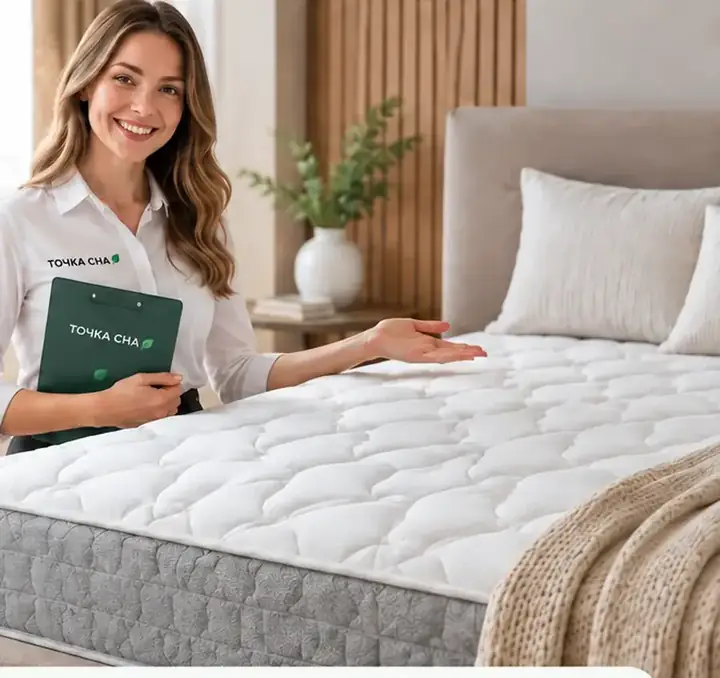
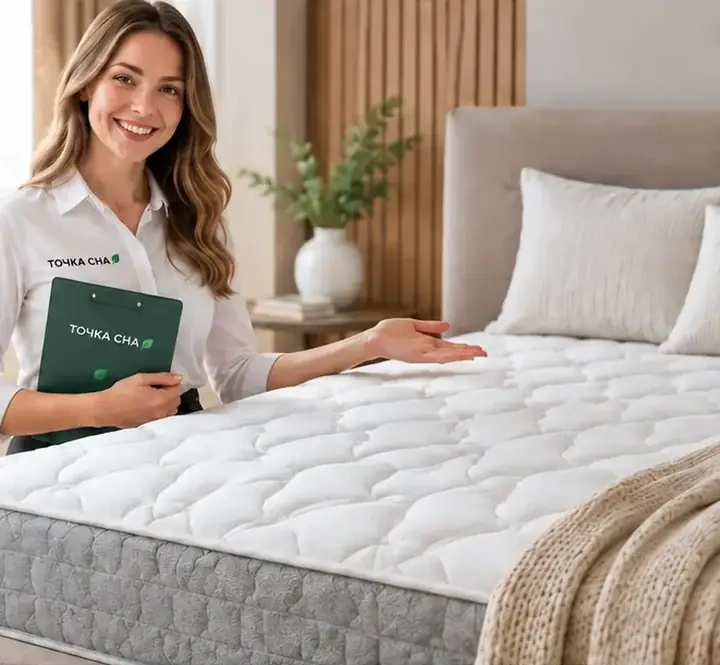
Crop 13px white strip from hero photo

diff --git a/index.html b/index.html
@@ -100,7 +100,7 @@ input:focus,select:focus{border-color:var(--brand-green);box-shadow:0 0 0 3px rg
 <body>
 <div class="top"><div class="wrap"><span><b>Точка Сна</b> · федеральная онлайн-сеть товаров для сна</span><span>Екатеринбургский филиал · региональный склад: г. Берёзовский</span></div></div>
 <nav class="nav"><div class="wrap navin"><a class="brand brand-logo" href="#top" aria-label="Точка Сна"><img src="assets/logo-tochka-sna.svg?v=20260905-logo1" alt="Точка Сна — матрасы для комфортной жизни" width="250" height="50"></a><div class="navlinks"><a href="#catalog">Каталог</a><a href="#guide">Как выбрать</a><a href="#delivery">Доставка</a><a href="#about">О сети</a></div><a class="btn avito" target="_blank" rel="noopener">Написать на Авито</a></div></nav>
-<header class="hero" id="top"><div class="wrap"><div class="hero-copy"><div class="eyebrow"><span class="hero-pin" aria-hidden="true"></span>Екатеринбургский филиал федеральной онлайн-сети</div><h1>Комфортный сон начинается с правильного матраса</h1><p>Поможем подобрать матрас под ваши потребности: консультация, честные рекомендации и быстрая доставка по Екатеринбургу и ближайшим районам.</p><div class="actions"><a class="btn hero-primary" href="#catalog">Перейти в каталог <span aria-hidden="true">→</span></a><a class="btn hero-avito avito" target="_blank" rel="noopener">Получить консультацию на Авито <span class="avito-dots" aria-hidden="true"><i></i><i></i><i></i><i></i></span></a></div><div class="advantages" aria-label="Преимущества"><div class="adv"><span class="hero-adv-icon" aria-hidden="true"><svg viewBox="0 0 24 24"><path d="M20 4C13 4 7 6.8 5.1 12.3 3.8 16 5.2 19.2 5.2 19.2s3.3 1.2 6.8-.6C17.2 16 20 10.4 20 4Z"/><path d="M5 20c3-5 6.2-7.9 10.4-10.4"/></svg></span><strong>Качественные и безопасные материалы</strong></div><div class="adv"><span class="hero-adv-icon" aria-hidden="true"><svg viewBox="0 0 24 24"><circle cx="12" cy="12" r="4"/><path d="M12 2v3M12 19v3M2 12h3M19 12h3M4.9 4.9 7 7M17 17l2.1 2.1M19.1 4.9 17 7M7 17l-2.1 2.1"/></svg></span><strong>Современные технологии</strong></div><div class="adv"><span class="hero-adv-icon" aria-hidden="true"><svg viewBox="0 0 24 24"><path d="M12 3 20 6v5c0 5.2-3.3 8.4-8 10-4.7-1.6-8-4.8-8-10V6l8-3Z"/><path d="m8.5 12 2.2 2.2 4.8-5"/></svg></span><strong>Гарантия качества</strong></div><div class="adv"><span class="hero-adv-icon" aria-hidden="true"><svg viewBox="0 0 24 24"><ellipse cx="9" cy="7" rx="5" ry="2.5"/><path d="M4 7v4c0 1.4 2.2 2.5 5 2.5s5-1.1 5-2.5V7M4 11v4c0 1.4 2.2 2.5 5 2.5 1.2 0 2.3-.2 3.1-.5"/><ellipse cx="16" cy="15" rx="4" ry="2"/><path d="M12 15v3c0 1.1 1.8 2 4 2s4-.9 4-2v-3"/></svg></span><strong>Отличное соотношение цены и качества</strong></div></div></div><div class="hero-visual"><img src="assets/hero-consultant-mattress.webp?v=20260905-hero-final" alt="Консультант Точка Сна рядом с матрасом" width="720" height="678" loading="eager" fetchpriority="high"><div class="hero-note">Помогу выбрать<br>ваш идеальный<br>матрас <span>♡</span></div><div class="hero-free">Бесплатная консультация<br>в удобном формате</div></div></div></header>
+<header class="hero" id="top"><div class="wrap"><div class="hero-copy"><div class="eyebrow"><span class="hero-pin" aria-hidden="true"></span>Екатеринбургский филиал федеральной онлайн-сети</div><h1>Комфортный сон начинается с правильного матраса</h1><p>Поможем подобрать матрас под ваши потребности: консультация, честные рекомендации и быстрая доставка по Екатеринбургу и ближайшим районам.</p><div class="actions"><a class="btn hero-primary" href="#catalog">Перейти в каталог <span aria-hidden="true">→</span></a><a class="btn hero-avito avito" target="_blank" rel="noopener">Получить консультацию на Авито <span class="avito-dots" aria-hidden="true"><i></i><i></i><i></i><i></i></span></a></div><div class="advantages" aria-label="Преимущества"><div class="adv"><span class="hero-adv-icon" aria-hidden="true"><svg viewBox="0 0 24 24"><path d="M20 4C13 4 7 6.8 5.1 12.3 3.8 16 5.2 19.2 5.2 19.2s3.3 1.2 6.8-.6C17.2 16 20 10.4 20 4Z"/><path d="M5 20c3-5 6.2-7.9 10.4-10.4"/></svg></span><strong>Качественные и безопасные материалы</strong></div><div class="adv"><span class="hero-adv-icon" aria-hidden="true"><svg viewBox="0 0 24 24"><circle cx="12" cy="12" r="4"/><path d="M12 2v3M12 19v3M2 12h3M19 12h3M4.9 4.9 7 7M17 17l2.1 2.1M19.1 4.9 17 7M7 17l-2.1 2.1"/></svg></span><strong>Современные технологии</strong></div><div class="adv"><span class="hero-adv-icon" aria-hidden="true"><svg viewBox="0 0 24 24"><path d="M12 3 20 6v5c0 5.2-3.3 8.4-8 10-4.7-1.6-8-4.8-8-10V6l8-3Z"/><path d="m8.5 12 2.2 2.2 4.8-5"/></svg></span><strong>Гарантия качества</strong></div><div class="adv"><span class="hero-adv-icon" aria-hidden="true"><svg viewBox="0 0 24 24"><ellipse cx="9" cy="7" rx="5" ry="2.5"/><path d="M4 7v4c0 1.4 2.2 2.5 5 2.5s5-1.1 5-2.5V7M4 11v4c0 1.4 2.2 2.5 5 2.5 1.2 0 2.3-.2 3.1-.5"/><ellipse cx="16" cy="15" rx="4" ry="2"/><path d="M12 15v3c0 1.1 1.8 2 4 2s4-.9 4-2v-3"/></svg></span><strong>Отличное соотношение цены и качества</strong></div></div></div><div class="hero-visual"><img src="assets/hero-consultant-mattress.webp?v=20260905-hero-crop13" alt="Консультант Точка Сна рядом с матрасом" width="720" height="678" loading="eager" fetchpriority="high"><div class="hero-note">Помогу выбрать<br>ваш идеальный<br>матрас <span>♡</span></div><div class="hero-free">Бесплатная консультация<br>в удобном формате</div></div></div></header>
 <section class="section delivery" id="delivery"><div class="wrap"><div class="deliverybox"><h2>Доставка и подъём</h2><div class="dgrid"><div class="d">Доставка<b>1 500 ₽</b><small>до подъезда по г. Екатеринбург</small></div><div class="d">Грузовой лифт<b>600 ₽</b><small>подъём на этаж при наличии грузового лифта</small></div><div class="d">По лестнице<b>300 ₽ / этаж</b><small>ручной подъём по лестнице</small></div><div class="d">График<b>Вторник / Пятница</b><small>плановые дни доставки</small></div></div></div></div></section>
 <section class="section network" id="about"><div class="wrap"><div class="networkbox"><div><h2>Точка Сна — федеральная онлайн-сеть</h2><p>Мы объединяем онлайн-подбор, консультацию и заказ с региональной логистикой. Екатеринбургский филиал работает дистанционно, а региональный склад в г. Берёзовский обеспечивает обслуживание Екатеринбурга и ближайших районов. Подбор модели и оформление заказа доступны через Avito.</p></div><div class="networkfacts"><div class="fact"><b>Формат работы</b><span>Онлайн-консультация и заказ</span></div><div class="fact"><b>Региональный филиал</b><span>г. Екатеринбург</span></div><div class="fact"><b>Региональный склад</b><span>г. Берёзовский</span></div></div></div></div></section>
 <section class="section guidepro" id="guide"><div class="wrap"><div class="guidehead"><h2>Как правильно подобрать матрас</h2><p>Ниже — практический ориентир, который помогает быстро определить подходящую жёсткость и конструкцию. После этого проще сравнивать конкретные модели в каталоге.</p></div><div class="steps"><div class="step"><i>1</i><b>Определите размер</b><span>Ориентируйтесь на внутренний размер спального места кровати, а не на внешние габариты.</span></div><div class="step"><i>2</i><b>Учтите вес</b><span>Чем выше нагрузка, тем важнее стабильная поддержка и более плотные материалы.</span></div><div class="step"><i>3</i><b>Выберите жёсткость</b><span>Учитывайте привычную позу сна и личные ощущения: мягче, средне или жёстче.</span></div><div class="step"><i>4</i><b>Сравните конструкцию</b><span>TFK — универсальный вариант; MultiPocket даёт более точечную поддержку.</span></div></div><div class="tablewrap"><table class="selecttable"><thead><tr><th>Параметр</th><th>Ориентир по выбору</th><th>На что обратить внимание</th></tr></thead><tbody><tr><td>Вес до 60 кг</td><td>Мягкая или средняя жёсткость</td><td>Слишком жёсткая поверхность может ощущаться избыточно плотной.</td></tr><tr><td>Вес 60–90 кг</td><td>Средняя жёсткость</td><td>Универсальный диапазон для большинства моделей TFK и MultiPocket.</td></tr><tr><td>Вес 90–110 кг</td><td>Средняя / выше средней</td><td>Лучше выбирать более стабильную конструкцию и плотные наполнители.</td></tr><tr><td>Вес свыше 110 кг</td><td>Выше средней или жёсткая</td><td>Важны усиленная поддержка, плотные слои и подходящая допустимая нагрузка.</td></tr><tr><td>Сон преимущественно на боку</td><td>Мягкая / средняя</td><td>Плечу и тазу нужно достаточно комфортно погружаться в поверхность.</td></tr><tr><td>Сон на спине</td><td>Средняя</td><td>Нужен баланс между комфортом и равномерной поддержкой.</td></tr><tr><td>Сон на животе</td><td>Средняя / выше средней</td><td>Слишком мягкая поверхность может давать ощущение проваливания.</td></tr><tr><td>Пара с разным весом</td><td>TFK или MultiPocket</td><td>Независимые пружины лучше локализуют нагрузку; MultiPocket работает более точечно.</td></tr><tr><td>Любите жёсткую поверхность</td><td>Модели с кокосовым волокном</td><td>Чем толще слой кокоса, тем заметнее ощущение жёсткости.</td></tr><tr><td>Нужен более мягкий комфорт</td><td>Латекс, Memory Foam, пена</td><td>Эти наполнители делают верхние слои более адаптивными и комфортными.</td></tr></tbody></table></div><div class="guide-note">Памятка носит общий рекомендательный характер. Если есть медицинские ограничения или рекомендации врача по спальному месту, их следует учитывать в первую очередь.</div></div></section>
